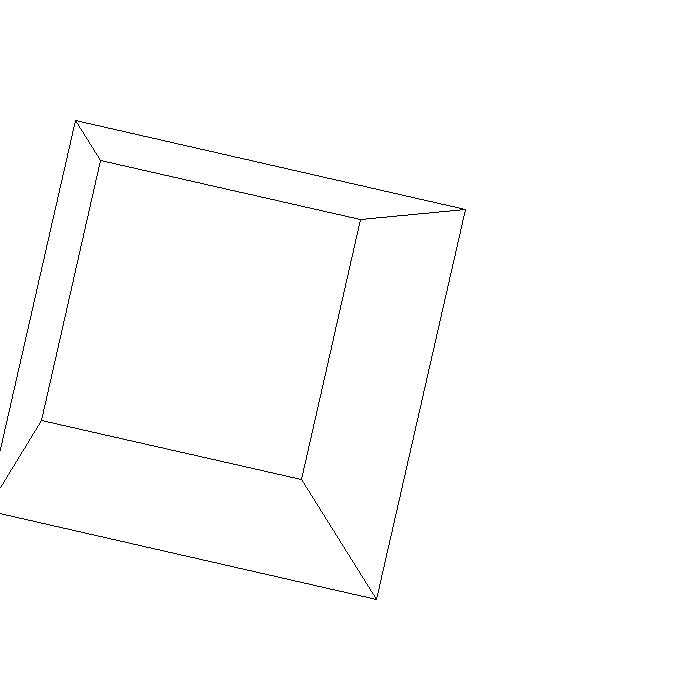
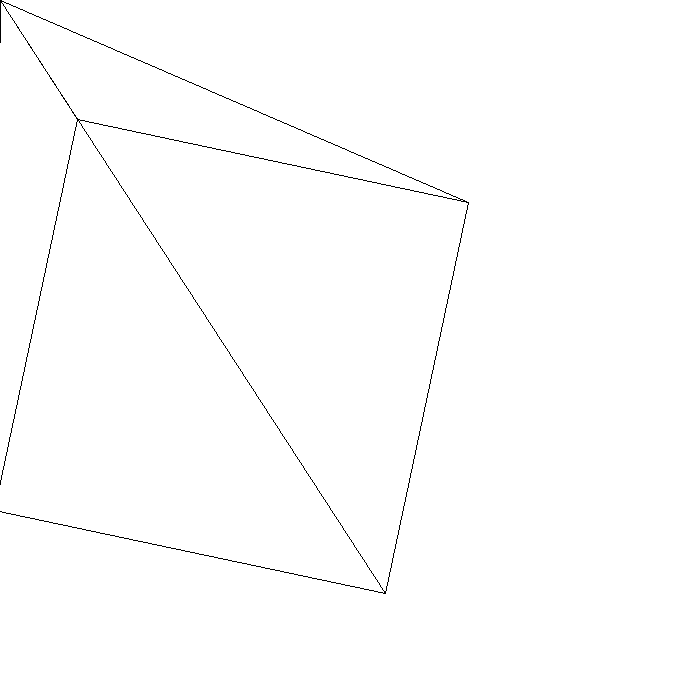
tried to implement edge deleting. It works fine now for parallel projectiong, but poorly for perspective. I need to refactor Face class, I think.

diff --git a/src/Lab5.java b/src/Lab5.java
@@ -32,23 +32,25 @@ public class Lab5 extends Lab4 {
 
         var canvasParallel = new CanvasLab5(700, 700);
         var canvasPerspective = new CanvasLab5(700, 700);
+        var canvasParallelDel = new CanvasLab5(700, 700);
+        var canvasPerspectiveDel = new CanvasLab5(700, 700);
 
         var figure = new Polyhedron(new Face[]{
                 new Face(new Edge3D(new Point3D(100, 100, 0),   new Point3D(500, 100, 0)),
                          new Edge3D(new Point3D(100, 100, 0),   new Point3D(100, 500, 0))),
-                new Face(new Edge3D(new Point3D(100, 100, 0),   new Point3D(200, 200, 200)),
+                new Face(new Edge3D(new Point3D(100, 100, 0),   new Point3D(200, 200, 500)),
                          new Edge3D(new Point3D(100, 100, 0),   new Point3D(500, 100, 0))),
                 new Face(new Edge3D(new Point3D(100, 100, 0),   new Point3D(100, 500, 0)),
-                         new Edge3D(new Point3D(100, 100, 0),   new Point3D(200, 200, 200))),
+                         new Edge3D(new Point3D(100, 100, 0),   new Point3D(200, 200, 500))),
                 new Face(new Edge3D(new Point3D(100, 500, 0),   new Point3D(500, 500, 0)),
-                         new Edge3D(new Point3D(100, 500, 0),   new Point3D(200, 600, 200))),
+                         new Edge3D(new Point3D(100, 500, 0),   new Point3D(200, 600, 500))),
                 new Face(new Edge3D(new Point3D(500, 500, 0),   new Point3D(500, 100, 0)),
-                         new Edge3D(new Point3D(500, 500, 0),   new Point3D(600, 600, 200))),
-                new Face(new Edge3D(new Point3D(200, 200, 200), new Point3D(200, 600, 200)),
-                         new Edge3D(new Point3D(200, 200, 200), new Point3D(600, 200, 200))),
+                         new Edge3D(new Point3D(500, 500, 0),   new Point3D(600, 600, 500))),
+                new Face(new Edge3D(new Point3D(200, 200, 500), new Point3D(200, 600, 500)),
+                         new Edge3D(new Point3D(200, 200, 500), new Point3D(600, 200, 500))),
         });
 
-         figure = figure.rotate(Math.PI / 14, new Point3D(0, 0, 1));
+        figure = figure.rotate(Math.PI / 15, new Point3D(0, 0, 1));
         // figure = figure.apply(T);
 
         var parallelProjectionLines = figure.getParallelProjectionXY();
@@ -59,10 +61,25 @@ public class Lab5 extends Lab4 {
         Imgcodecs.imwrite(savePath + "parallel.png", canvasParallel.getImage());
         displayImage(canvasParallel.getImage(), 1, "Parallel Projection");
 
-        var perspectiveProjectionLines = figure.getPerspectiveProjectionXYpointOnZ(0.0025);
+        var perspectiveProjectionLines = figure.getPerspectiveProjectionXYpointOnZ(10);
         for (var line : perspectiveProjectionLines) {
             canvasPerspective.drawLine(line[0], line[1], Canvas.Color.BLACK);
         }
+
+        var parallelDelLines = figure.getParallelProjectionXY(new Point3D(0, 0, -1));
+        for (var line : parallelDelLines) {
+            canvasParallelDel.drawLine(line[0], line[1], Canvas.Color.BLACK);
+        }
+        displayImage(canvasParallelDel.getImage(), 1, "Parallel with deleted edges");
+        Imgcodecs.imwrite(savePath + "parallel_deleted_edges.png", canvasParallelDel.getImage());
+
+        var perspectiveDelLines = figure.getPerspectiveProjectionXYpointOnZ(10, new Point3D(0, 0, -1));
+        for (var line : perspectiveDelLines) {
+            canvasPerspectiveDel.drawLine(line[0], line[1], Canvas.Color.BLACK);
+        }
+        displayImage(canvasPerspectiveDel.getImage(), 1, "Perspective with deleted edges");
+        Imgcodecs.imwrite(savePath + "perspective_deleted_edges.png", canvasPerspectiveDel.getImage());
+
 
         Imgcodecs.imwrite(savePath + "perspective.png", canvasPerspective.getImage());
         displayImage(canvasPerspective.getImage(), 1, "Perspective Projection");
@@ -131,6 +148,33 @@ class Polyhedron {
         return lines;
     }
 
+    public Point2D[][] getParallelProjectionXY(Point3D viewer){
+        if (viewer == null)
+            throw new IllegalArgumentException("Вместо вектора направления наблюдение пришел null");
+        if (viewer.equals(new Point3D(0, 0, 0)))
+            throw new IllegalArgumentException("Вектор направления наблюдения не может быть нулевым");
+
+        var lines = new Point2D[faces.length * 4][2];
+        for (int i = 0; i < faces.length; i++) {
+            Edge3D[] edges = faces[i].getEdges();
+            Point3D n = faces[i].getNormal();
+
+            if (n.dot(viewer) > 0)
+                for (int j = 0; j < 4; j++) {
+                    lines[4 * i + j][0] = new Point2D(edges[j].getP1().getX(), edges[j].getP1().getY());
+                    lines[4 * i + j][1] = new Point2D(edges[j].getP2().getX(), edges[j].getP2().getY());
+                }
+            else
+                for (int j = 0; j < 4; j++) {
+                    // заглушки
+                    lines[4 * i + j][0] = new Point2D(-1, -1);
+                    lines[4 * i + j][1] = new Point2D(-1, -1);
+                }
+        }
+
+        return lines;
+    }
+
     public Point2D[][] getPerspectiveProjectionXYpointOnZ(double k) {
         var lines = new Point2D[faces.length * 4][2];
 
@@ -146,6 +190,44 @@ class Polyhedron {
                                                  .multiply(1 / (k * p2.getZ() + 1));
             }
         }
+        return lines;
+    }
+
+    public Point2D[][] getPerspectiveProjectionXYpointOnZ(double k, Point3D viewer) {
+        if (viewer == null)
+            throw new IllegalArgumentException("Вместо вектора направления наблюдение пришел null");
+        if (viewer.equals(new Point3D(0, 0, 0)))
+            throw new IllegalArgumentException("Вектор направления наблюдения не может быть нулевым");
+
+        var lines = new Point2D[faces.length * 4][2];
+
+        double[][] T = {
+                { 1, 0, 0, 0},
+                { 0, 1, 0, 0},
+                { 0, 0, 1, k},
+                { 0, 0, 0, 1}
+        };
+
+        for (int i = 0; i < faces.length; i++) {
+            Edge3D[] edges = faces[i].getEdges();
+            Point3D n = faces[i].apply(T).getNormal();
+
+            if (n.dot(viewer) > 0)
+                for (int j = 0; j < 4; j++) {
+                    var p1 = edges[j].getP1();
+                    var p2 = edges[j].getP2();
+                    lines[4 * i + j][0] = new Point2D(p1.getX(), p1.getY())
+                            .multiply(1 / (k * p1.getZ() + 1));
+                    lines[4 * i + j][1] = new Point2D(p2.getX(), p2.getY())
+                            .multiply(1 / (k * p2.getZ() + 1));
+                }
+            else
+                for (int j = 0; j < 4; j++) {
+                    lines[4 * i + j][0] = new Point2D(-1, -1);
+                    lines[4 * i + j][1] = new Point2D(-1, -1);
+                }
+        }
+
         return lines;
     }
 }
@@ -187,6 +269,10 @@ class Point3D {
 
     public Point3D multiply(double scalar) {
         return new Point3D(getX() * scalar, getY() * scalar, getZ() * scalar);
+    }
+
+    public double dot(Point3D p) {
+        return getX() * p.getX() + getY() * p.getY() + getZ() * p.getZ();
     }
 
     public Point3D rotate(double angle, Point3D axis) {
@@ -300,6 +386,7 @@ class Face {
 
     // Конструктор ожидает 2 грани, с совпадающим началом.
     // Грани упорядочены так, чтобы по ним определялся вектор нормали
+    // Сейчас годится только для случая, когда все грани параллелограммы
     public Face(Edge3D edge1, Edge3D edge2) {
         if (edge1 == null || edge2 == null)
             throw new IllegalArgumentException("Ребра не могуть быть null");
@@ -335,8 +422,17 @@ class Face {
         var r2 = edge2.getP2().sub(edge2.getP1());
         var n = new Point3D(r1.getY() * r2.getZ() - r1.getZ() * r2.getY(),
                             r1.getZ() * r2.getX() - r1.getX() * r2.getZ(),
-                            r1.getZ() * r2.getY() - r1.getY() * r2.getX());
+                            r1.getX() * r2.getY() - r1.getY() * r2.getX());
         double length = Math.sqrt(n.getX() * n.getX() + n.getY() * n.getY() + n.getZ() * n.getZ());
         return n.multiply(1 / length);
+    }
+
+    public Face apply(double[][] T){
+        if (T == null)
+            throw new IllegalArgumentException("На вход пришел null");
+        if (T.length != 4 || T[0].length != 4)
+            throw new IllegalArgumentException("Матрица преобразования должна быть 4x4");
+
+        return new Face(edge1.apply(T), edge2.apply(T));
     }
 }
